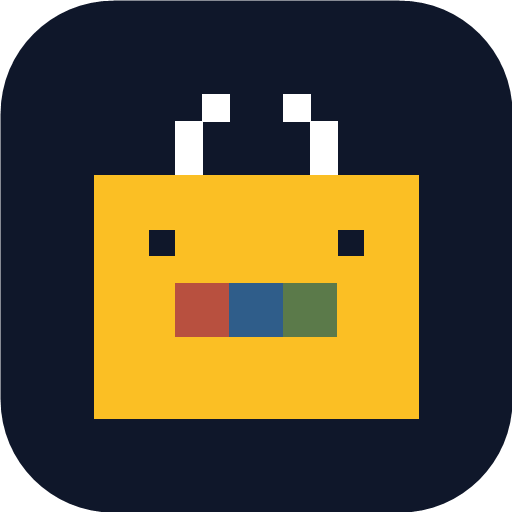
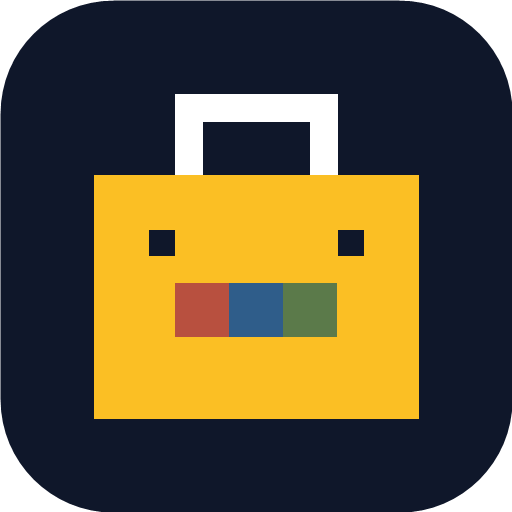
Ícono con la agarradera cerrada

Changed region(s): [[0.4375, 0.1562, 0.5625, 0.25], [0.5938, 0.1562, 0.6875, 0.25], [0.3438, 0.1562, 0.4062, 0.25]]

diff --git a/index.html b/index.html
@@ -5,8 +5,8 @@
 <meta name="viewport" content="width=device-width, initial-scale=1, viewport-fit=cover">
 <title>Lista de despensa</title>
 <link rel="manifest" href="manifest.webmanifest">
-<link rel="icon" type="image/png" sizes="192x192" href="icon-192.png?v=1">
-<link rel="apple-touch-icon" sizes="180x180" href="apple-touch-icon.png?v=1">
+<link rel="icon" type="image/png" sizes="192x192" href="icon-192.png?v=2">
+<link rel="apple-touch-icon" sizes="180x180" href="apple-touch-icon.png?v=2">
 <meta name="theme-color" content="#0f172a">
 <style>
   html, body { margin: 0; height: 100%; background: #0f172a; }

diff --git a/sw.js b/sw.js
@@ -1,6 +1,6 @@
 /* Cascarón de la PWA en caché: la app abre aunque no haya red.
    La app y los datos viven en Google (Apps Script + Drive); aquí solo se guarda lo de este origen. */
-var CACHE = 'ld-shell-v2';
+var CACHE = 'ld-shell-v3';
 var SHELL = ['./', './index.html', './manifest.webmanifest', './icon-192.png', './icon-512.png', './icon-192-maskable.png', './icon-512-maskable.png', './apple-touch-icon.png'];
 
 self.addEventListener('install', function (e) {
